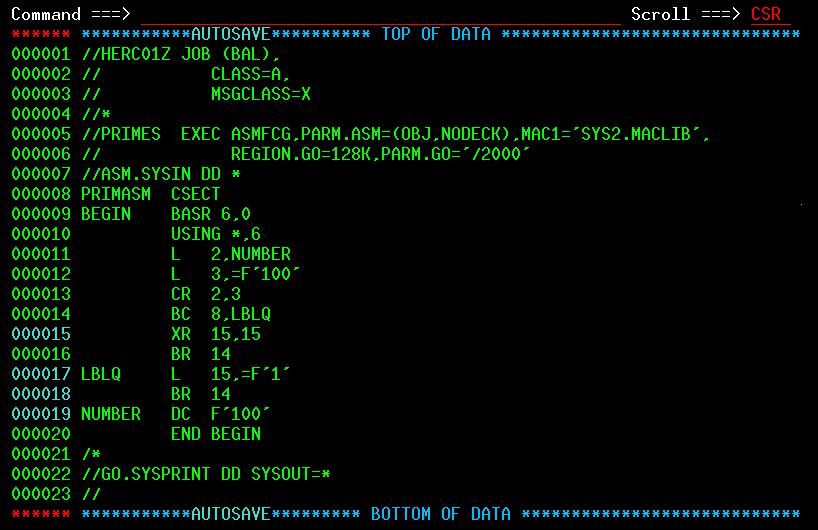
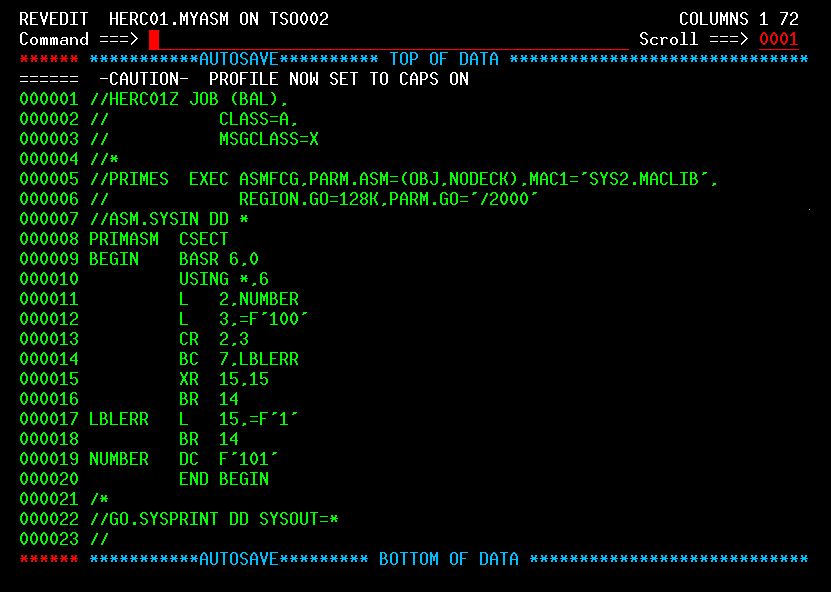
use LBLERR; non-zero exit on inequality

Changed region(s): [[0.0, 0.0, 0.978, 0.9962]]

diff --git a/hlasm/index.html b/hlasm/index.html
@@ -106,8 +106,8 @@
                     <p>
                         The program tests whether numbers '101' and '100' are equal.
                         <ul>
-                            <li>If they are equal, the program will exit with a non-zero return code (or in MVS parlance it will "abnormally terminate")</li>
-                            <li>If they are not equal, the program will exit gracefully</li>
+                            <li>If they are not equal, the program will exit with a non-zero return code (or in MVS parlance it will "abnormally terminate")</li>
+                            <li>If they are equal, the program will exit gracefully</li>
                         </ul>
                     </p>
                     <p>Here's the program in all it's glory:</p>
@@ -176,7 +176,7 @@
                         before returning to the caller using BR 14. LBLERR is just a label and can be whatever.
                     </p>
                     <p>
-                        With <span class="code">NUMBER DC F'100'</span> we define a fullword constant with the value 100 and assign the label NUMBER to it (you've seen it used before).
+                        With <span class="code">NUMBER DC F'101'</span> we define a fullword constant with the value 100 and assign the label NUMBER to it (you've seen it used before).
                     </p>
                     <p>
                         And that's all folks. You and I now share a superficial understanding of some HLASM instructions. I'll leave it to you to think what to do with this information.
